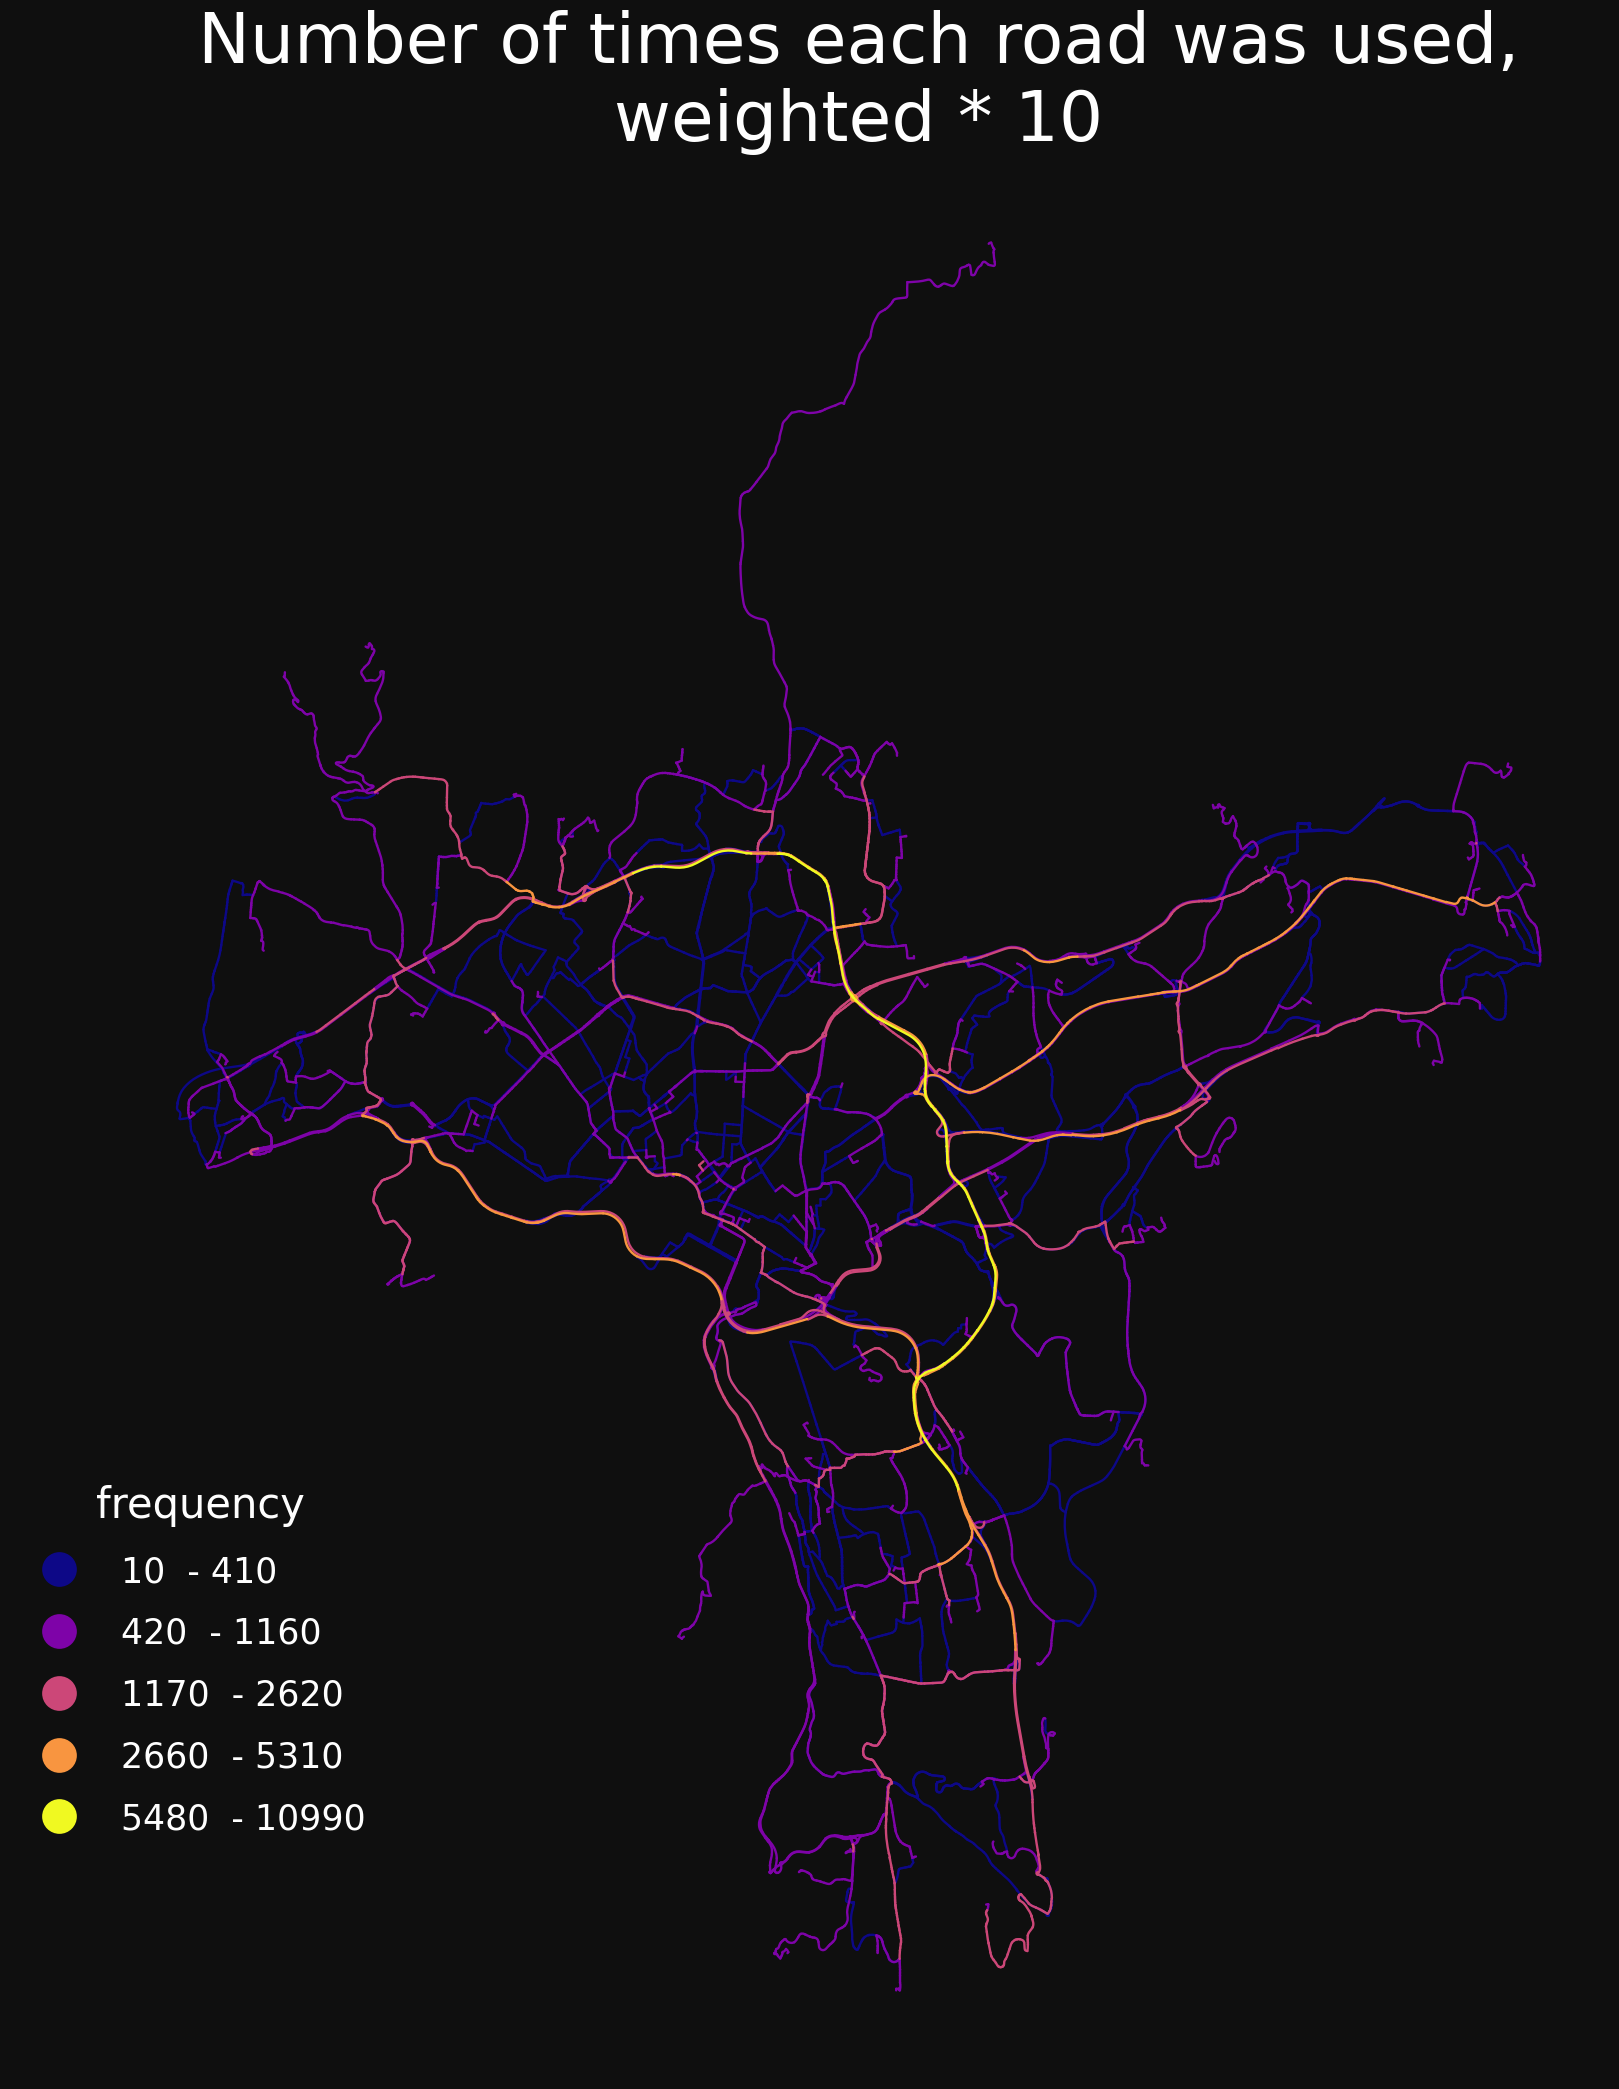
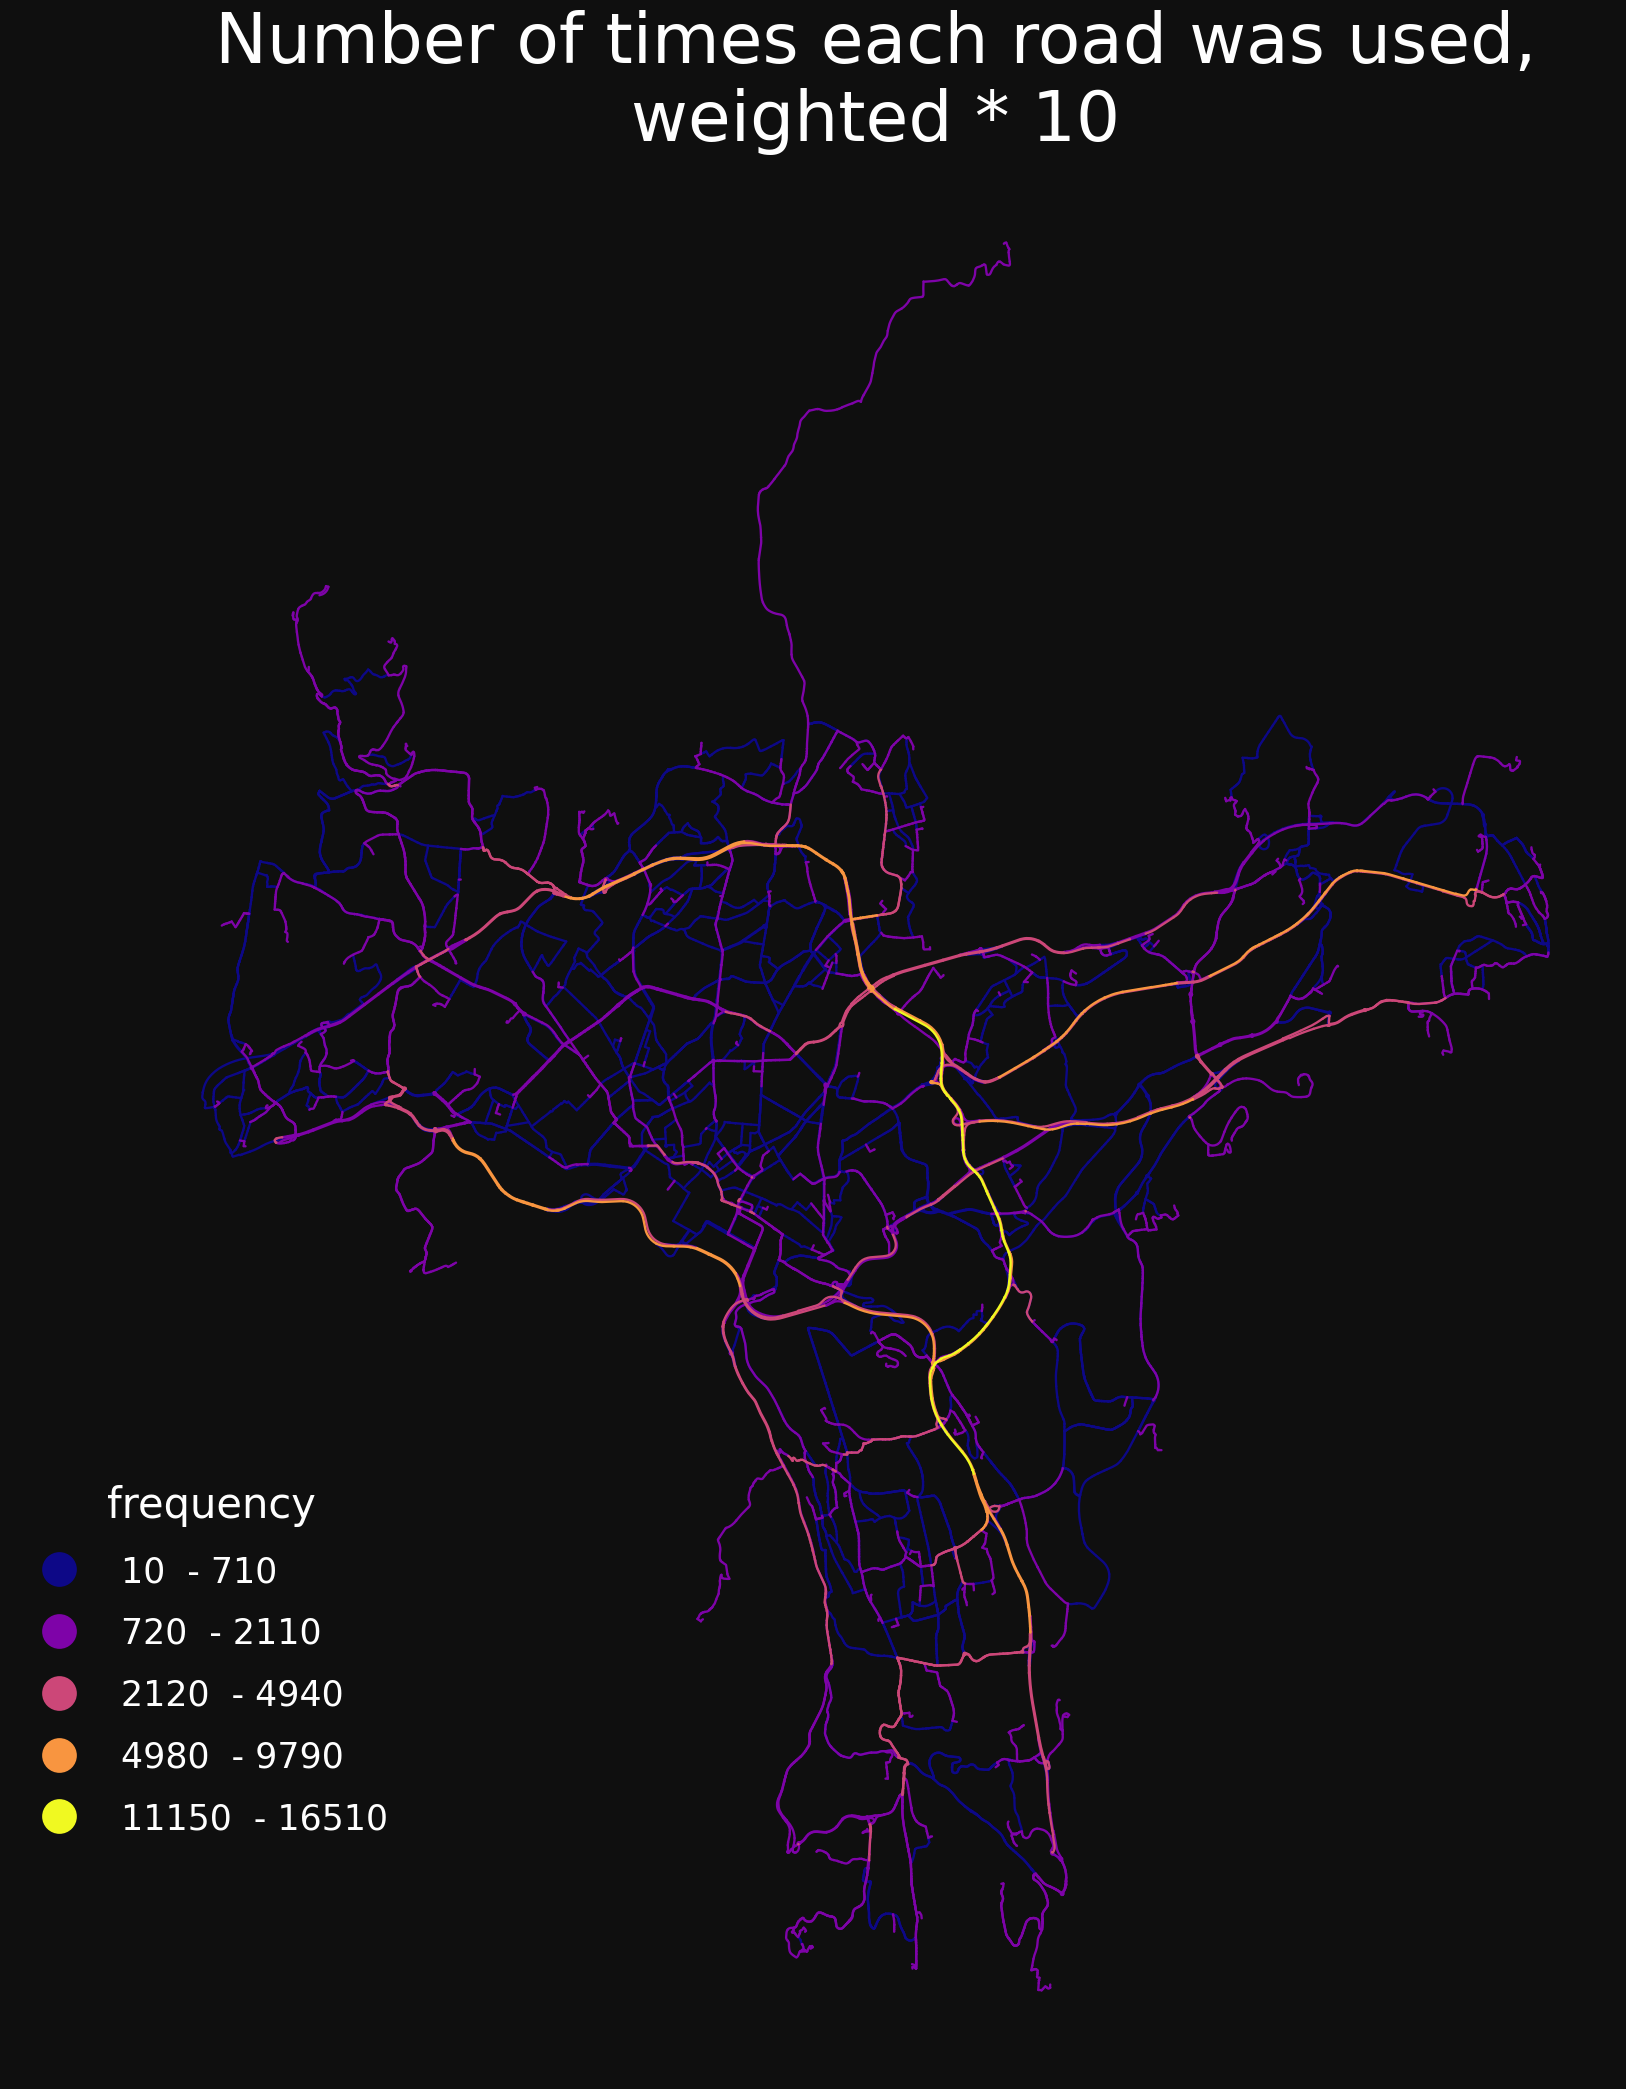
Docstrings.

diff --git a/src/sgis/networkanalysis/networkanalysis.py b/src/sgis/networkanalysis/networkanalysis.py
@@ -59,8 +59,7 @@ class NetworkAnalysis:
             Defaults to False.
 
     Attributes:
-        network: A Network instance that holds the lines and nodes (points) of the
-            GeoDataFrame of line geometries.
+        network: A Network instance that holds the lines and nodes (points).
         rules: NetworkAnalysisRules instance.
         log: A DataFrame with information about each analysis run.
 
@@ -192,6 +191,7 @@ class NetworkAnalysis:
         97  POINT (263162.000 6650732.200)
         98  POINT (272322.700 6653729.100)
         99  POINT (265622.800 6644644.200)
+        <BLANKLINE>
         [100 rows x 1 columns]
         >>> destinations = points.loc[100:199, ["geometry"]]
         >>> destinations
@@ -207,6 +207,7 @@ class NetworkAnalysis:
         197  POINT (273135.300 6653198.100)
         198  POINT (270582.300 6652163.800)
         199  POINT (264980.800 6647231.300)
+        <BLANKLINE>
         [100 rows x 1 columns]
 
         Travel time from 100 to 100 points.
@@ -225,6 +226,7 @@ class NetworkAnalysis:
         9997      99          197  19.977029
         9998      99          198  15.233163
         9999      99          199   6.439002
+        <BLANKLINE>
         [10000 rows x 3 columns]
 
         Join the results onto the 'origins' GeoDataFrame via the index.
@@ -244,6 +246,7 @@ class NetworkAnalysis:
         99  POINT (265622.800 6644644.200)          197  19.977029
         99  POINT (265622.800 6644644.200)          198  15.233163
         99  POINT (265622.800 6644644.200)          199   6.439002
+        <BLANKLINE>
         [10000 rows x 3 columns]
 
         Get travel times below 10 minutes.
@@ -263,6 +266,7 @@ class NetworkAnalysis:
         99  POINT (265622.800 6644644.200)        177.0  5.944194
         99  POINT (265622.800 6644644.200)        183.0  8.449906
         99  POINT (265622.800 6644644.200)        199.0  6.439002
+        <BLANKLINE>
         [2195 rows x 3 columns]
 
         Get the three fastest routes from each origin.
@@ -282,6 +286,7 @@ class NetworkAnalysis:
         99  POINT (265622.800 6644644.200)        102.0  1.648705
         99  POINT (265622.800 6644644.200)        134.0  1.116209
         99  POINT (265622.800 6644644.200)        156.0  1.368926
+        <BLANKLINE>
         [294 rows x 3 columns]
 
         Assign aggregated values directly onto the origins.
@@ -300,6 +305,7 @@ class NetworkAnalysis:
         97  POINT (263162.000 6650732.200)     11.904372
         98  POINT (272322.700 6653729.100)     17.579399
         99  POINT (265622.800 6644644.200)     12.185800
+        <BLANKLINE>
         [100 rows x 2 columns]
 
         Use set_index to use column as identifier insted of the index.
@@ -322,6 +328,7 @@ class NetworkAnalysis:
         9997   3401          197  19.977029
         9998   3401          198  15.233163
         9999   3401          199   6.439002
+        <BLANKLINE>
         [10000 rows x 3 columns]
 
         Travel time from 1000 to 1000 points rowwise.
@@ -341,6 +348,7 @@ class NetworkAnalysis:
         997     997            2  19.968743
         998     998            1   9.484374
         999     999            0  14.892648
+        <BLANKLINE>
         [1000 rows x 3 columns]
 
         """
@@ -458,6 +466,7 @@ class NetworkAnalysis:
         151466  73802  73632      103.0  LINESTRING Z (265371.400 6647147.900 131.660, ...
         151463  73799  73800      123.0  LINESTRING Z (265359.600 6647135.400 131.660, ...
         152170  74418  74246      130.0  LINESTRING Z (264579.835 6651954.573 113.209, ...
+        <BLANKLINE>
         [8556 rows x 4 columns]
 
         The frequencies can be weighted for each origin-destination pair by specifying
@@ -488,6 +497,7 @@ class NetworkAnalysis:
         622      24           47      10
         623      24           48      10
         624      24           49      10
+        <BLANKLINE>
         [625 rows x 3 columns]
 
         All frequencies will now be multiplied by 10.
@@ -506,6 +516,7 @@ class NetworkAnalysis:
         151466  73802  73632     1030.0  LINESTRING Z (265371.400 6647147.900 131.660, ...
         151463  73799  73800     1230.0  LINESTRING Z (265359.600 6647135.400 131.660, ...
         152170  74418  74246     1300.0  LINESTRING Z (264579.835 6651954.573 113.209, ...
+        <BLANKLINE>
         [8556 rows x 4 columns]
 
         'weight_df' can also be a DataFrame with one column (the weight) and a
@@ -526,7 +537,8 @@ class NetworkAnalysis:
            47      10
            48      10
            49      10
-
+        <BLANKLINE>
+        [625 rows x 1 columns]
         """
         if self._log:
             time_ = perf_counter()
@@ -646,6 +658,7 @@ class NetworkAnalysis:
         994       1          998  10.698588  MULTILINESTRING Z ((263489.330 6645655.330 11....
         995       1          999  10.109855  MULTILINESTRING Z ((269217.997 6650654.895 166...
         996       1         1000  14.657289  MULTILINESTRING Z ((264475.675 6644245.782 114...
+        <BLANKLINE>
         [997 rows x 4 columns]
         """
         if self._log:
@@ -865,7 +878,7 @@ class NetworkAnalysis:
 
         See also:
             precice_service_area: Equivelent method where lines are also cut to get
-                precice results.
+            precice results.
 
         Examples
         --------

diff --git a/src/sgis/dapla.py b/src/sgis/dapla.py
@@ -31,14 +31,14 @@ def exists(path: str) -> bool:
 
 
 def read_geopandas(path: str, **kwargs) -> GeoDataFrame:
-    """Reads geoparquet or other geodata* from a file on GCS.
+    """Reads geoparquet or other geodata from a file on GCS.
 
     Note:
-        Does not currently read shapelfiles or filegeodatabases.
+        Does not currently read shapefiles or filegeodatabases.
 
     Args:
         path: path to a file on Google Cloud Storage.
-        **kwargs: additional keyword arguments passed to geopandas' read_parquet
+        **kwargs: Additional keyword arguments passed to geopandas' read_parquet
             or read_file, depending on the file type.
 
      Returns:
@@ -61,9 +61,9 @@ def write_geopandas(df: gpd.GeoDataFrame, gcs_path: str, **kwargs) -> None:
         Does not currently write to shapelfile or filegeodatabase.
 
     Args:
-        df: The GeoDataFrame to write
+        df: The GeoDataFrame to write.
         gcs_path: The path to the file you want to write to.
-        **kwargs: additional keyword arguments passed to parquet.write_table
+        **kwargs: Additional keyword arguments passed to parquet.write_table
             (for parquet) or geopandas' to_file method (if not parquet).
     """
     pd.io.parquet.BaseImpl.validate_dataframe(df)

diff --git a/src/sgis/networkanalysis/finding_isolated_networks.py b/src/sgis/networkanalysis/finding_isolated_networks.py
@@ -1,12 +1,5 @@
-"""Functions for line geometries.
+"""Functions for Finding network components in a GeoDataFrame of lines."""
 
-The module includes functions for cutting and splitting lines, cutting lines into
-pieces, filling holes in a network of lines, finding isolated network islands and
-creating unique node ids.
-
-The functions are also methods of the Network class, where some checks and
-preperation is done before each method is run, making sure the lines are correct.
-"""
 import networkx as nx
 from geopandas import GeoDataFrame
 
@@ -63,6 +56,10 @@ def get_connected_components(gdf: GeoDataFrame) -> GeoDataFrame:
 
     gdf["connected"] = gdf.source.map(largest_component_dict).fillna(0)
 
+    gdf = gdf.drop(
+        ["source_wkt", "target_wkt", "source", "target", "n_source", "n_target"], axis=1
+    )
+
     return gdf
 
 
@@ -108,5 +105,9 @@ def get_component_size(gdf: GeoDataFrame) -> GeoDataFrame:
     }
 
     gdf["component_size"] = gdf.source.map(componentsdict)
+
+    gdf = gdf.drop(
+        ["source_wkt", "target_wkt", "source", "target", "n_source", "n_target"], axis=1
+    )
 
     return gdf

diff --git a/src/sgis/networkanalysis/networkanalysisrules.py b/src/sgis/networkanalysis/networkanalysisrules.py
@@ -56,7 +56,7 @@ class NetworkAnalysisRules:
     >>> roads = sg.read_parquet_url("https://media.githubusercontent.com/media/statisticsnorway/ssb-sgis/main/tests/testdata/roads_oslo_2022.parquet")
     >>> points = sg.read_parquet_url("https://media.githubusercontent.com/media/statisticsnorway/ssb-sgis/main/tests/testdata/points_oslo.parquet")
 
-    Let's start by setting the default rules. 'weight' and 'directed' has noe default
+    Let's start by setting the default rules. 'weight' and 'directed' have no default
     values.
 
     >>> rules = sg.NetworkAnalysisRules(weight="minutes", directed=True)

diff --git a/docs/examples/network_analysis_examples.py b/docs/examples/network_analysis_examples.py
@@ -19,7 +19,7 @@ import numpy as np
 import pandas as pd
 
 
-src = str(Path(__file__).parent.parent.parent) + "/src"
+src = str(Path().resolve().parent.parent) + "/src"
 print(src)
 sys.path.insert(0, src)
 
@@ -76,8 +76,8 @@ nwa
 # Get number of times each line segment was visited, with optional weighting.
 
 # %%
-origins = points.iloc[:75]
-destinations = points.iloc[75:150]
+origins = points.iloc[:100]
+destinations = points.iloc[100:200]
 
 # creating uniform weights of 10
 od_pairs = pd.MultiIndex.from_product([origins.index, destinations.index])

diff --git a/src/sgis/networkanalysis/closing_network_holes.py b/src/sgis/networkanalysis/closing_network_holes.py
@@ -1,12 +1,4 @@
-"""Functions for line geometries.
-
-The module includes functions for cutting and splitting lines, cutting lines into
-pieces, filling holes in a network of lines, finding isolated network islands and
-creating unique node ids.
-
-The functions are also methods of the Network class, where some checks and
-preperation is done before each method is run, making sure the lines are correct.
-"""
+"""Functions for filling gaps in the network with straight lines."""
 
 import geopandas as gpd
 import numpy as np

diff --git a/src/sgis/networkanalysis/cutting_lines.py b/src/sgis/networkanalysis/cutting_lines.py
@@ -1,12 +1,4 @@
-"""Functions for line geometries.
-
-The module includes functions for cutting and splitting lines, cutting lines into
-pieces, filling holes in a network of lines, finding isolated network islands and
-creating unique node ids.
-
-The functions are also methods of the Network class, where some checks and
-preperation is done before each method is run, making sure the lines are correct.
-"""
+"""Cutting and splitting line geometries."""
 import warnings
 
 import numpy as np

diff --git a/docs/examples/py_to_md.py b/docs/examples/py_to_md.py
@@ -53,10 +53,10 @@ def py_to_md(
     os.remove(nb_file)
 
 
-file = "maps"
+file = "network_analysis_examples"
 py_to_md(file, move_n_folders_up=0)
 
-file = "network_analysis_examples"
+file = "maps"
 py_to_md(file, move_n_folders_up=0)
 
 file = "network_analysis_demo_template"

diff --git a/src/sgis/read_parquet.py b/src/sgis/read_parquet.py
@@ -9,7 +9,7 @@ def read_parquet_url(url: str) -> GeoDataFrame:
     """Reads geoparquet from a URL.
 
     Args:
-        url: url to a geoparquet file
+        url: URL containing a geoparquet file.
 
     Returns:
         A GeoDataFrame.

diff --git a/README.md b/README.md
@@ -34,7 +34,7 @@ Preparing for network analysis:
 
 ```python
 import sgis as sg
-import pandas as pd
+
 
 roads = sg.read_parquet_url(
     "https://media.githubusercontent.com/media/statisticsnorway/ssb-sgis/main/tests/testdata/roads_oslo_2022.parquet"
@@ -49,7 +49,7 @@ directed_roads = sg.make_directed_network(
     minute_cols=("drivetime_fw", "drivetime_bw"),
 )
 
-rules = sg.NetworkAnalysisRules(weight="minutes", directed=True)
+rules = sg.NetworkAnalysisRules(directed=True, weight="minutes")
 
 nwa = sg.NetworkAnalysis(network=directed_roads, rules=rules)
 
@@ -57,16 +57,16 @@ nwa
 ```
 
     NetworkAnalysis(
-        network=DirectedNetwork(6364 km, percent_bidirectional=87),
+        network=Network(6364 km, percent_bidirectional=87),
         rules=NetworkAnalysisRules(weight=minutes, directed=True, search_tolerance=250, search_factor=0, split_lines=False, ...),
-        log=True, detailed_log=True,
+        log=True, detailed_log=False,
     )
 
 Get number of times each line segment was visited, with optional weighting.
 
 ```python
-origins = points.iloc[:75]
-destinations = points.iloc[75:150]
+origins = points.iloc[:100]
+destinations = points.iloc[100:200]
 
 # creating uniform weights of 10
 od_pairs = pd.MultiIndex.from_product([origins.index, destinations.index])
@@ -138,6 +138,8 @@ m.plot()
 ```
 
 ![png](docs/examples/network_analysis_examples_files/network_analysis_examples_11_0.png)
+
+More network analysis examples can be found here: https://github.com/statisticsnorway/ssb-sgis/blob/main/docs/network_analysis_demo_template.md
 
 Road data for Norway can be downloaded here: https://kartkatalog.geonorge.no/metadata/nvdb-ruteplan-nettverksdatasett/8d0f9066-34f9-4423-be12-8e8523089313
 
